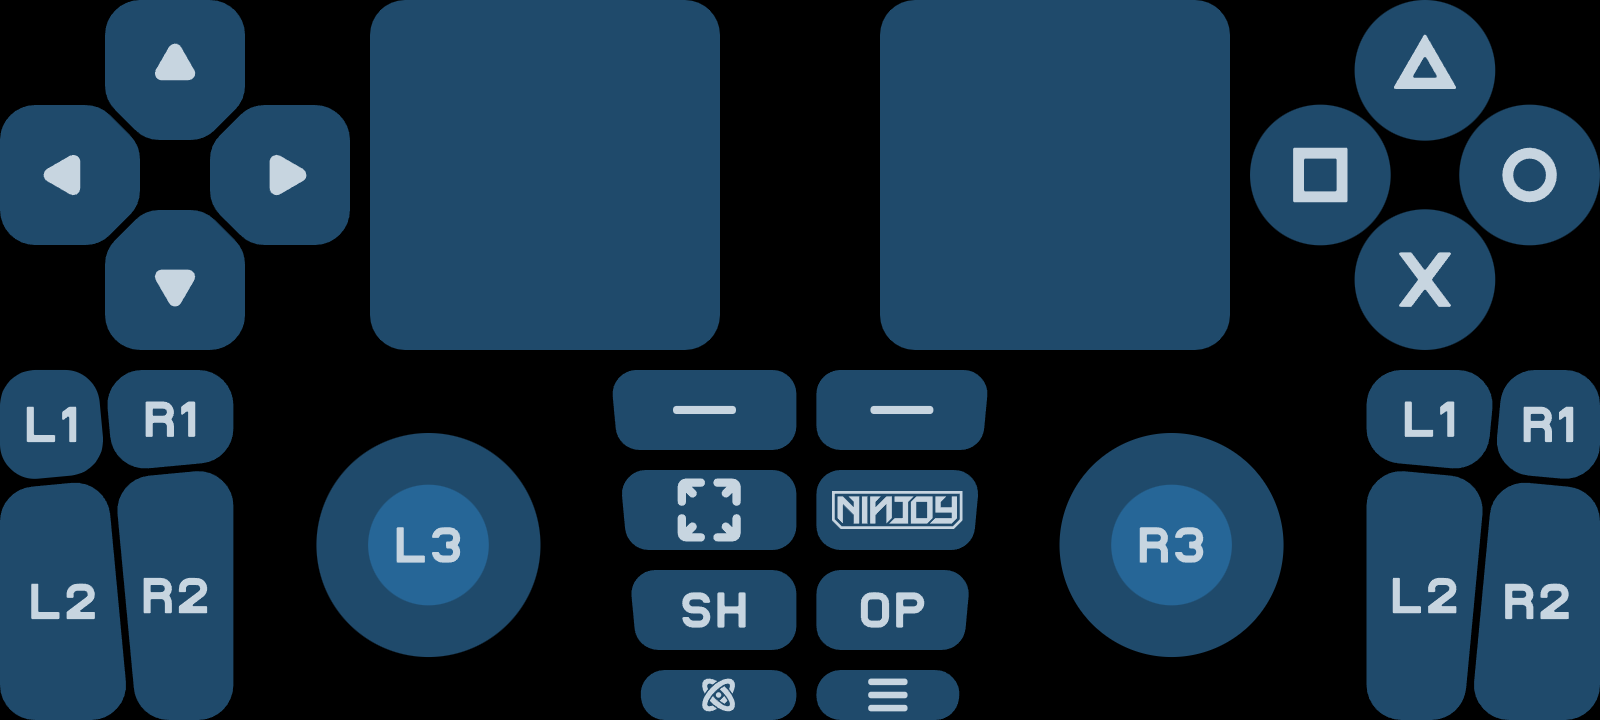
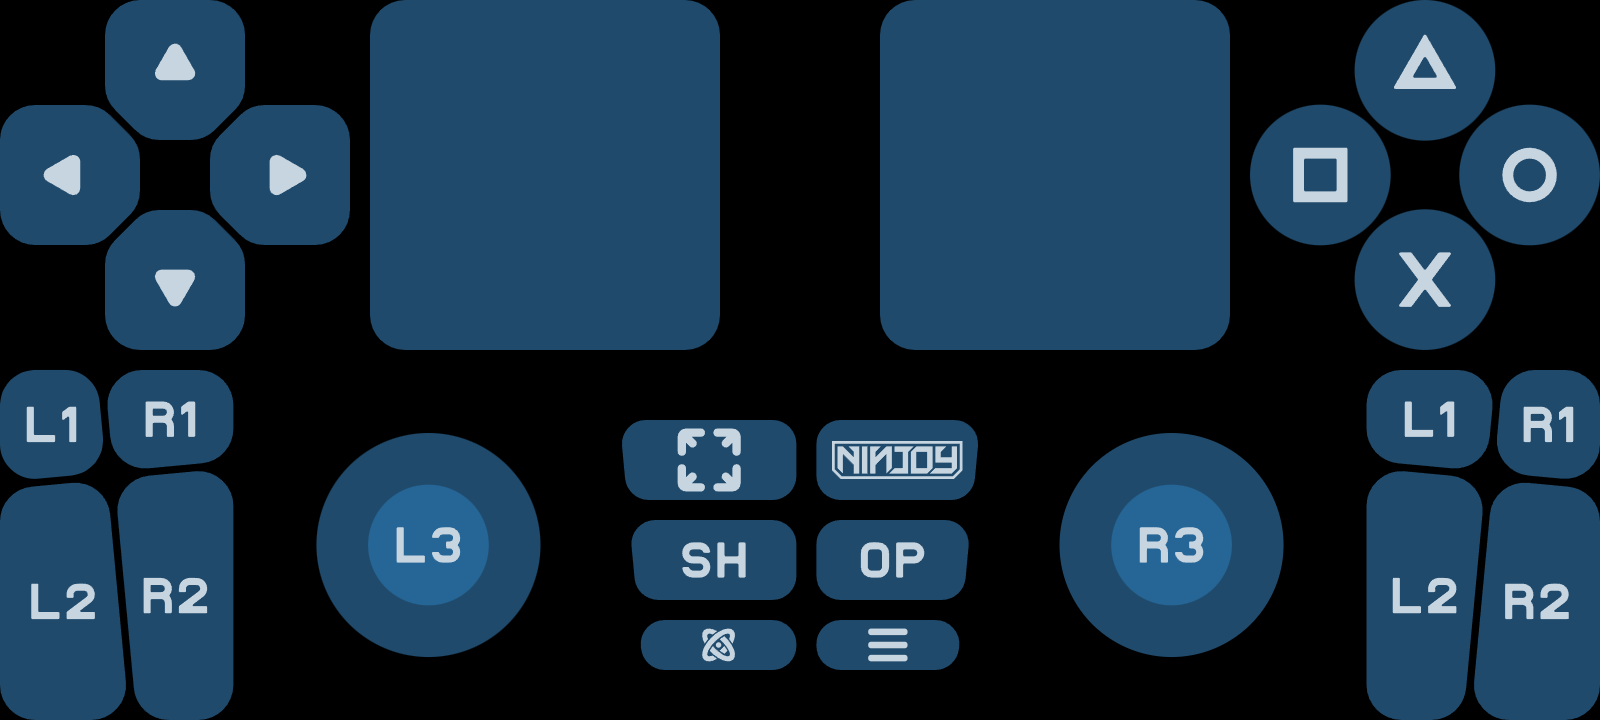
feat(controller): click the touchpad with a double tap and drop the click buttons
A double tap and hold on a touchpad area presses the DualShock 4 touchpad
click while the finger stays down, with its touch reported where it is, so
Steam tells left and right clicks apart. The official skin (0.2.0) drops the
separate click buttons and moves the center controls up; skins may still
use click buttons.

Changed region(s): [[0.375, 0.4889, 0.625, 1.0]]

diff --git a/controller/test/browser/system.test.ts b/controller/test/browser/system.test.ts
@@ -1,7 +1,7 @@
 import { afterEach, describe, expect, it } from "vitest";
 import { createController, type Controller, type NoticeKey } from "../../src/dom/controller.ts";
 import { loadOfficialSkin } from "../../src/skins.ts";
-import { at, mount, pressed, stubPlatform, touch } from "./helpers.ts";
+import { at, inlineSkin, mount, pressed, stubPlatform, touch } from "./helpers.ts";
 
 const tick = () => new Promise((r) => setTimeout(r, 0));
 const sample = { rate: { x: 1, y: 2, z: 3 }, accel: { x: 4, y: 5, z: 6 }, time: 42 };
@@ -51,16 +51,26 @@ describe("touchpad, system controls and motion (US4)", () => {
     b.up();
   });
 
-  it("clicks the touchpad and touches the half from the click buttons", async () => {
-    await start();
-    const click = touch(root).down(...at(root, "touchpad-click-left"));
+  it("clicks the touchpad and touches the half from click buttons (skins may still have them)", async () => {
+    const rect = (id: string) => `<svg xmlns="http://www.w3.org/2000/svg" viewBox="0 0 100 100"><rect id="${id}" width="100" height="100" fill="#123"/></svg>`;
+    const area = (id: string, side: "left" | "right", x: number) => ({ id, type: "touchpad", area: side, svg: `${id}.svg`, box: { x, y: 0, width: 200, height: 200 }, elements: { base: { role: "base" } } });
+    const click = (id: string, side: "left" | "right", x: number) => ({ id, type: "button", bindings: [`touchpad-${side}`], svg: `${id}.svg`, box: { x, y: 300, width: 100, height: 100 }, elements: { base: { role: "base" } } });
+    const skin = await inlineSkin(
+      { name: "Click buttons", controls: [area("tl", "left", 0), area("tr", "right", 300), click("cl", "left", 0), click("cr", "right", 300)] },
+      { "tl.svg": rect("base"), "tr.svg": rect("base"), "cl.svg": rect("base"), "cr.svg": rect("base") },
+    );
+    root = mount(1600, 720);
+    platform = stubPlatform();
+    controller = createController({ skin, root, storage: null, platform });
+    controller.updateSettings({ size: 1, finger: 0 });
+    const left = touch(root).down(...at(root, "cl"));
     expect(pressed(controller)).toEqual(["touchpad"]);
     expect(touches()).toEqual([[0.25, 0.5]]);
-    const finger = touch(root).down(...at(root, "touchpad-right", 0.2, 0.2));
+    const finger = touch(root).down(...at(root, "tr", 0.2, 0.2));
     expect(touches()).toEqual([[0.6, 0.2]]); // a finger on the touchpad: only it is reported
     finger.up();
-    click.up();
-    const right = touch(root).down(...at(root, "touchpad-click-right"));
+    left.up();
+    const right = touch(root).down(...at(root, "cr"));
     expect(touches()).toEqual([[0.75, 0.5]]);
     right.up();
     expect(pressed(controller)).toEqual([]);
@@ -122,5 +132,73 @@ describe("touchpad, system controls and motion (US4)", () => {
     expect(controller.state.gyro).toBe(false);
     touch(root).down(...at(root, "gyro")).up();
     expect(notices).toEqual(["motionInsecure"]);
+  });
+});
+
+describe("touchpad click by double tap (polish US2)", () => {
+  let controller: Controller;
+  let root: HTMLElement;
+  let time = 0;
+  afterEach(() => controller.dispose());
+
+  const start = async () => {
+    root = mount(1600, 720);
+    controller = createController({ skin: await loadOfficialSkin(), root, storage: null, platform: { ...stubPlatform(), now: () => time } });
+    controller.updateSettings({ size: 1, finger: 0 });
+  };
+
+  for (const side of ["left", "right"] as const) {
+    it(`double tap and hold on the ${side} touchpad clicks at the finger`, async () => {
+      await start();
+      time = 1000;
+      const tap = touch(root).down(...at(root, `touchpad-${side}`, 0.3, 0.5));
+      time = 1100;
+      tap.up();
+      time = 1300;
+      const hold = touch(root).down(...at(root, `touchpad-${side}`, 0.3, 0.5));
+      expect(pressed(controller)).toEqual(["touchpad"]);
+      const [t] = controller.state.touchpad.touches;
+      expect(t!.x).toBeCloseTo(side === "left" ? 0.15 : 0.65, 1); // reported on that half
+      // dragging with the click held, like a laptop touchpad
+      time = 1500;
+      hold.move(...at(root, `touchpad-${side}`, 0.9, 0.2));
+      expect(pressed(controller)).toEqual(["touchpad"]);
+      expect(controller.state.touchpad.touches[0]!.x).toBeCloseTo(side === "left" ? 0.45 : 0.95, 1);
+      // sliding out lets go of the click and presses nothing else
+      hold.move(...at(root, "share"));
+      expect(pressed(controller)).toEqual([]);
+      hold.move(...at(root, `touchpad-${side}`, 0.5, 0.5)); // back in: no click until a new double tap
+      expect(pressed(controller)).toEqual([]);
+      time = 2000;
+      hold.up();
+      expect(pressed(controller)).toEqual([]);
+    });
+  }
+
+  it("a plain touch or drag does not click", async () => {
+    await start();
+    time = 1000;
+    const drag = touch(root).down(...at(root, "touchpad-left", 0.2, 0.5));
+    drag.move(...at(root, "touchpad-left", 0.8, 0.5));
+    expect(pressed(controller)).toEqual([]);
+    time = 1600;
+    drag.up();
+    time = 1700;
+    const again = touch(root).down(...at(root, "touchpad-left", 0.5, 0.5));
+    expect(pressed(controller)).toEqual([]);
+    again.up();
+  });
+
+  it("quick flicks across the touchpad do not click", async () => {
+    await start();
+    for (let i = 0; i < 3; i++) {
+      time = 1000 + i * 150;
+      const flick = touch(root).down(...at(root, "touchpad-left", 0.3, 0.5));
+      time += 40;
+      flick.move(...at(root, "touchpad-left", 0.5, 0.5));
+      expect(pressed(controller)).toEqual([]);
+      time += 40;
+      flick.up();
+    }
   });
 });

diff --git a/controller/src/dom/controller.ts b/controller/src/dom/controller.ts
@@ -1,5 +1,5 @@
 import type { Binding, ResolvedSkin } from "@ninjoy/skin-format";
-import { EntryOrder, StickFingers } from "../engine/fingers.ts";
+import { EntryOrder, StickFingers, TapClick } from "../engine/fingers.ts";
 import { autoSize, type LayoutEdit } from "../engine/layout.ts";
 import { toControllerFrame } from "../engine/motion.ts";
 import { clampSettings, settingsFromStorage, stickZones, triggerZones, type ControlOverride, type PlayerSettings } from "../engine/settings.ts";
@@ -122,6 +122,8 @@ export function createController(options: ControllerOptions): Controller {
 
   const touchpads = ofType("touchpad");
   const touchOrder = new EntryOrder<number>();
+  /** double tap and hold on a touchpad area = the DS4 touchpad click at that finger */
+  const touchpadClick = new TapClick<string>();
   const systems = ofType("system");
 
   const builder = new StateBuilder();
@@ -146,7 +148,10 @@ export function createController(options: ControllerOptions): Controller {
         const stick = sticks.find((rc) => hitTester.hits(rc, finger.x, finger.y, settings.finger));
         if (stick) stickFingers.grab(stick.control.id, finger.id, now);
       }
+      // a finger holding the touchpad click stays on the touchpad: sliding out presses nothing else
+      const holdsClick = touchpadClick.holds(finger.id);
       for (const rc of rendered.controls) {
+        if (holdsClick && rc.control.type !== "touchpad") continue;
         if (rc.control.type !== "stick" && hitTester.hits(rc, finger.x, finger.y, settings.finger)) {
           touched.set(rc, [...(touched.get(rc) ?? []), finger]);
         }
@@ -223,11 +228,13 @@ export function createController(options: ControllerOptions): Controller {
     for (const rc of touchpads) {
       const box = hitTester.box(rc);
       for (const finger of touched.get(rc) ?? []) {
+        touchpadClick.touch(finger.id, rc.control.id, platform.now(), finger.x, finger.y);
         if (points.has(finger.id)) continue;
         const local = { x: (finger.x - box.left) / box.width, y: (finger.y - box.top) / box.height };
         points.set(finger.id, { id: finger.id, ...touchpadPoint(local, rc.control.area ?? "full") });
       }
     }
+    touchpadClick.onTouchpad(new Set(points.keys()));
     touchOrder.track(points.keys());
     const touches = touchOrder.recent(MAX_TOUCHES).map((id) => points.get(id)!);
     if (!touches.length) {
@@ -238,6 +245,7 @@ export function createController(options: ControllerOptions): Controller {
       }
     }
     builder.setTouches(touches.slice(0, MAX_TOUCHES));
+    if (touchpadClick.clicking) builder.press("touchpad");
   };
 
   const toggleState = (rc: RenderedControl): boolean | null => {
@@ -326,6 +334,7 @@ export function createController(options: ControllerOptions): Controller {
     move: (finger) => update(finger),
     up: (finger, completed) => {
       stickFingers.release(finger.id, platform.now());
+      touchpadClick.release(finger.id, platform.now());
       update();
       if (completed) runSystem(finger);
     },

diff --git a/controller/src/engine/fingers.ts b/controller/src/engine/fingers.ts
@@ -2,6 +2,10 @@
 export const TAP_MAX_MS = 250;
 /** …and a new touch within this window after it clicks the stick. */
 export const DOUBLE_TAP_MS = 300;
+/** A touchpad tap moves less than this (CSS px), so a quick flick is not a tap… */
+export const TAP_SLOP_PX = 12;
+/** …and the second touch starts within this distance of the tap (CSS px). */
+export const DOUBLE_TAP_REACH_PX = 60;
 
 interface Grab { stick: string; at: number; click: boolean }
 
@@ -72,5 +76,53 @@ export class EntryOrder<K> {
   /** the n most recent, oldest first */
   recent(n: number): K[] {
     return this.order.slice(-n);
+  }
+}
+
+/**
+ * Double tap and hold on an area (a touchpad half) presses a click while that finger stays down,
+ * like a laptop touchpad: a tap shorter than TAP_MAX_MS that moves less than TAP_SLOP_PX, then a
+ * new touch on the same area within DOUBLE_TAP_MS and DOUBLE_TAP_REACH_PX of the tap. Quick
+ * flicks (moving the cursor) never arm it. Leaving the touchpad lets go of the click, like a
+ * finger that can't stay pressed off a real touchpad; that finger still belongs to the touchpad.
+ */
+export class TapClick<Area> {
+  private touches = new Map<number, { area: Area; at: number; x: number; y: number; moved: number; click: boolean; captured: boolean }>();
+  private lastTap = new Map<Area, { at: number; x: number; y: number }>();
+
+  /** A finger is on `area` at (x, y) in CSS px; call on every update (only its first area counts). */
+  touch(finger: number, area: Area, now: number, x: number, y: number): void {
+    const own = this.touches.get(finger);
+    if (own) {
+      own.moved = Math.max(own.moved, Math.hypot(x - own.x, y - own.y));
+      return;
+    }
+    const tap = this.lastTap.get(area);
+    const click = tap !== undefined && now - tap.at <= DOUBLE_TAP_MS && Math.hypot(x - tap.x, y - tap.y) <= DOUBLE_TAP_REACH_PX;
+    this.touches.set(finger, { area, at: now, x, y, moved: 0, click, captured: click });
+  }
+
+  /** Fingers on a touchpad in this update: a clicking finger missing from them lets go. */
+  onTouchpad(fingers: Set<number>): void {
+    for (const [finger, touch] of this.touches) if (!fingers.has(finger)) touch.click = false;
+  }
+
+  release(finger: number, now: number): void {
+    const touch = this.touches.get(finger);
+    if (!touch) return;
+    this.touches.delete(finger);
+    if (!touch.captured && now - touch.at < TAP_MAX_MS && touch.moved < TAP_SLOP_PX) this.lastTap.set(touch.area, { at: now, x: touch.x, y: touch.y });
+    else this.lastTap.delete(touch.area);
+  }
+
+  /** True for a double-tapping finger: it belongs to the touchpad until released. */
+  holds(finger: number): boolean {
+    return this.touches.get(finger)?.captured === true;
+  }
+
+  /** True while a double-tapping finger is down. */
+  get clicking(): boolean {
+    for (const t of this.touches.values()) if (t.click) return true;
+    return false;
   }
 }

diff --git a/controller/test/unit/fingers.test.ts b/controller/test/unit/fingers.test.ts
@@ -1,5 +1,5 @@
 import { describe, expect, it } from "vitest";
-import { EntryOrder, StickFingers } from "../../src/engine/fingers.ts";
+import { EntryOrder, StickFingers, TapClick } from "../../src/engine/fingers.ts";
 
 describe("StickFingers", () => {
   it("keeps a finger until it is released", () => {
@@ -55,5 +55,62 @@ describe("EntryOrder", () => {
     expect(o.last()).toBe(1);
     o.track([1, 3, 4]);
     expect(o.recent(2)).toEqual([3, 4]);
+  });
+});
+
+describe("TapClick", () => {
+  it("clicks on a double tap and hold on the same area", () => {
+    const t = new TapClick<string>();
+    t.touch(1, "left", 0, 100, 100);
+    t.touch(1, "left", 60, 104, 103); // a few px of jitter
+    t.release(1, 120); // 120 ms tap
+    t.touch(2, "left", 300, 130, 90); // 180 ms later, near the tap
+    expect(t.clicking).toBe(true);
+    t.release(2, 900);
+    expect(t.clicking).toBe(false);
+  });
+
+  it("does not click after a long touch, a late touch or a tap on the other area", () => {
+    const t = new TapClick<string>();
+    t.touch(1, "left", 0, 100, 100);
+    t.release(1, 400); // a drag, not a tap
+    t.touch(2, "left", 450, 100, 100);
+    expect(t.clicking).toBe(false);
+    t.release(2, 500);
+    t.touch(3, "left", 1000, 100, 100); // 500 ms gap
+    expect(t.clicking).toBe(false);
+    t.release(3, 1050);
+    t.touch(4, "right", 1100, 100, 100); // tap was on the left area
+    expect(t.clicking).toBe(false);
+  });
+
+  it("lets go of the click when the finger leaves the touchpad", () => {
+    const t = new TapClick<string>();
+    t.touch(1, "left", 0, 100, 100);
+    t.release(1, 100);
+    t.touch(2, "left", 200, 100, 100);
+    t.onTouchpad(new Set([2]));
+    expect(t.clicking).toBe(true);
+    t.onTouchpad(new Set());
+    expect(t.clicking).toBe(false);
+    expect(t.holds(2)).toBe(true); // still the touchpad's finger
+    t.release(2, 900);
+    expect(t.holds(2)).toBe(false);
+  });
+
+  it("does not click after quick flicks or a second touch far from the tap", () => {
+    const t = new TapClick<string>();
+    // moving the cursor with quick short flicks
+    for (let i = 0; i < 4; i++) {
+      t.touch(i, "left", i * 150, 100, 100);
+      t.touch(i, "left", i * 150 + 40, 160, 100);
+      expect(t.clicking).toBe(false);
+      t.release(i, i * 150 + 80);
+    }
+    const u = new TapClick<string>();
+    u.touch(1, "left", 0, 100, 100);
+    u.release(1, 100);
+    u.touch(2, "left", 200, 300, 100); // a real tap, but the next touch is 200 px away
+    expect(u.clicking).toBe(false);
   });
 });

diff --git a/packages/skin-format/test/official-skin.test.ts b/packages/skin-format/test/official-skin.test.ts
@@ -20,7 +20,7 @@ describe("official Ninjoy skin", () => {
 
   it("covers every DS4 input plus the system controls", () => {
     const bindings = new Set(skin.controls.flatMap((c) => c.bindings ?? []));
-    for (const b of ["cross", "circle", "square", "triangle", "up", "down", "left", "right", "l1", "r1", "share", "options", "ps", "touchpad-left", "touchpad-right"]) {
+    for (const b of ["cross", "circle", "square", "triangle", "up", "down", "left", "right", "l1", "r1", "share", "options", "ps"]) {
       expect(bindings, b).toContain(b);
     }
     const count = (pred: (c: ResolvedSkin["controls"][number]) => boolean) => skin.controls.filter(pred).length;
@@ -29,6 +29,7 @@ describe("official Ninjoy skin", () => {
     expect(count((c) => c.trigger?.which === "l2")).toBe(2);
     expect(count((c) => c.trigger?.which === "r2")).toBe(2);
     expect(skin.controls.filter((c) => c.type === "stick").map((c) => c.side).sort()).toEqual(["left", "right"]);
+    // the touchpad click is a double tap on these areas (no separate click buttons)
     expect(skin.controls.filter((c) => c.type === "touchpad").map((c) => c.area).sort()).toEqual(["left", "right"]);
     expect(skin.controls.filter((c) => c.type === "system").map((c) => c.action).sort()).toEqual(["fullscreen", "gyro", "menu"]);
   });

diff --git a/controller/test/browser/render.test.ts b/controller/test/browser/render.test.ts
@@ -13,7 +13,7 @@ describe("rendering the official skin", () => {
     controller = createController({ skin, root, storage: null });
     controller.updateSettings({ size: 1 });
     const rect = root.getBoundingClientRect();
-    expect(root.querySelectorAll("svg[data-control]")).toHaveLength(28);
+    expect(root.querySelectorAll("svg[data-control]")).toHaveLength(26);
     for (const control of skin.controls) {
       const el = root.querySelector(`svg[data-control="${control.id}"]`) as SVGSVGElement;
       const r = el.getBoundingClientRect();

diff --git a/controller/test/browser/sticks.test.ts b/controller/test/browser/sticks.test.ts
@@ -40,8 +40,8 @@ describe("sticks (US2)", () => {
   it("lets the stick finger press a button it passes", async () => {
     await official();
     const finger = touch(root).down(C.x, C.y);
-    finger.move(700, 410); // touchpad click button, outside the stick
-    expect(pressed(controller)).toEqual(["touchpad"]);
+    finger.move(700, 560); // Share, outside the stick
+    expect(pressed(controller)).toEqual(["share"]);
     const { x, y } = controller.state.sticks.left;
     expect(Math.hypot(x, y)).toBeCloseTo(1, 5);
     finger.up();

diff --git a/specs/20261020-122122-controller-page-polish/tasks.md b/specs/20261020-122122-controller-page-polish/tasks.md
@@ -10,10 +10,10 @@
 
 ## US2 - Touchpad click (P1)
 
-- [ ] T004 [P] [US2] Unit test in `controller/test/unit/fingers.test.ts`: `TapClick` — tap < 250 ms then a touch within 300 ms clicks; long taps and late touches do not
-- [ ] T005 [P] [US2] Browser test `controller/test/browser/system.test.ts`: double tap and hold on each touchpad half presses `touchpad` with the finger's touch reported on that half; a plain touch/drag does not click
-- [ ] T006 [US2] `TapClick` in `controller/src/engine/fingers.ts`; touchpad click handling in `controller/src/dom/controller.ts`
-- [ ] T007 [US2] Official skin: remove the click buttons, move the center controls up 50 units, update the reference boxes fixture, tests counting controls and `skins/ninjoy/preview.png`
+- [X] T004 [P] [US2] Unit test in `controller/test/unit/fingers.test.ts`: `TapClick` — tap < 250 ms then a touch within 300 ms clicks; long taps and late touches do not
+- [X] T005 [P] [US2] Browser test `controller/test/browser/system.test.ts`: double tap and hold on each touchpad half presses `touchpad` with the finger's touch reported on that half; a plain touch/drag does not click
+- [X] T006 [US2] `TapClick` in `controller/src/engine/fingers.ts`; touchpad click handling in `controller/src/dom/controller.ts`
+- [X] T007 [US2] Official skin: remove the click buttons, move the center controls up 50 units, update the reference boxes fixture, tests counting controls and `skins/ninjoy/preview.png`
 
 ## US3 - Controller list and notices (P2)
 

diff --git a/specs/20261020-122122-controller-page-polish/spec.md b/specs/20261020-122122-controller-page-polish/spec.md
@@ -130,9 +130,12 @@ sideways: Chrome reports `rotationRate.alpha` around the device's x axis, `beta`
 - **FR-002**: On that tap the page MUST request the screen wake lock (re-requested whenever the
   page becomes visible again), ask for motion permission when gyro is on and the browser requires
   it, and MUST NOT force fullscreen.
-- **FR-003**: A double tap and hold (tap < 250 ms, new touch within 300 ms, same rules as the stick
-  click) on a touchpad area MUST press the DualShock 4 touchpad click while that finger stays down;
-  its touch keeps being reported.
+- **FR-003**: A double tap and hold on a touchpad area MUST press the DualShock 4 touchpad click
+  while that finger stays down, and the finger can drag with the click held; its touch keeps being
+  reported. Like a laptop touchpad, the first tap lasts < 250 ms and moves < 12 px, and the second
+  touch starts within 300 ms and 60 px of it, so quick flicks moving the cursor never click. Leaving
+  the touchpad lets go of the click (as on a real touchpad), and that finger presses no other
+  control until it is lifted.
 - **FR-004**: The official skin MUST drop the left/right click buttons and move the controls below
   the touchpads up by 50 canvas units; its preview and reference boxes are updated.
 - **FR-005**: The "turn sideways" notice MUST show only while a joined controller is on screen.
